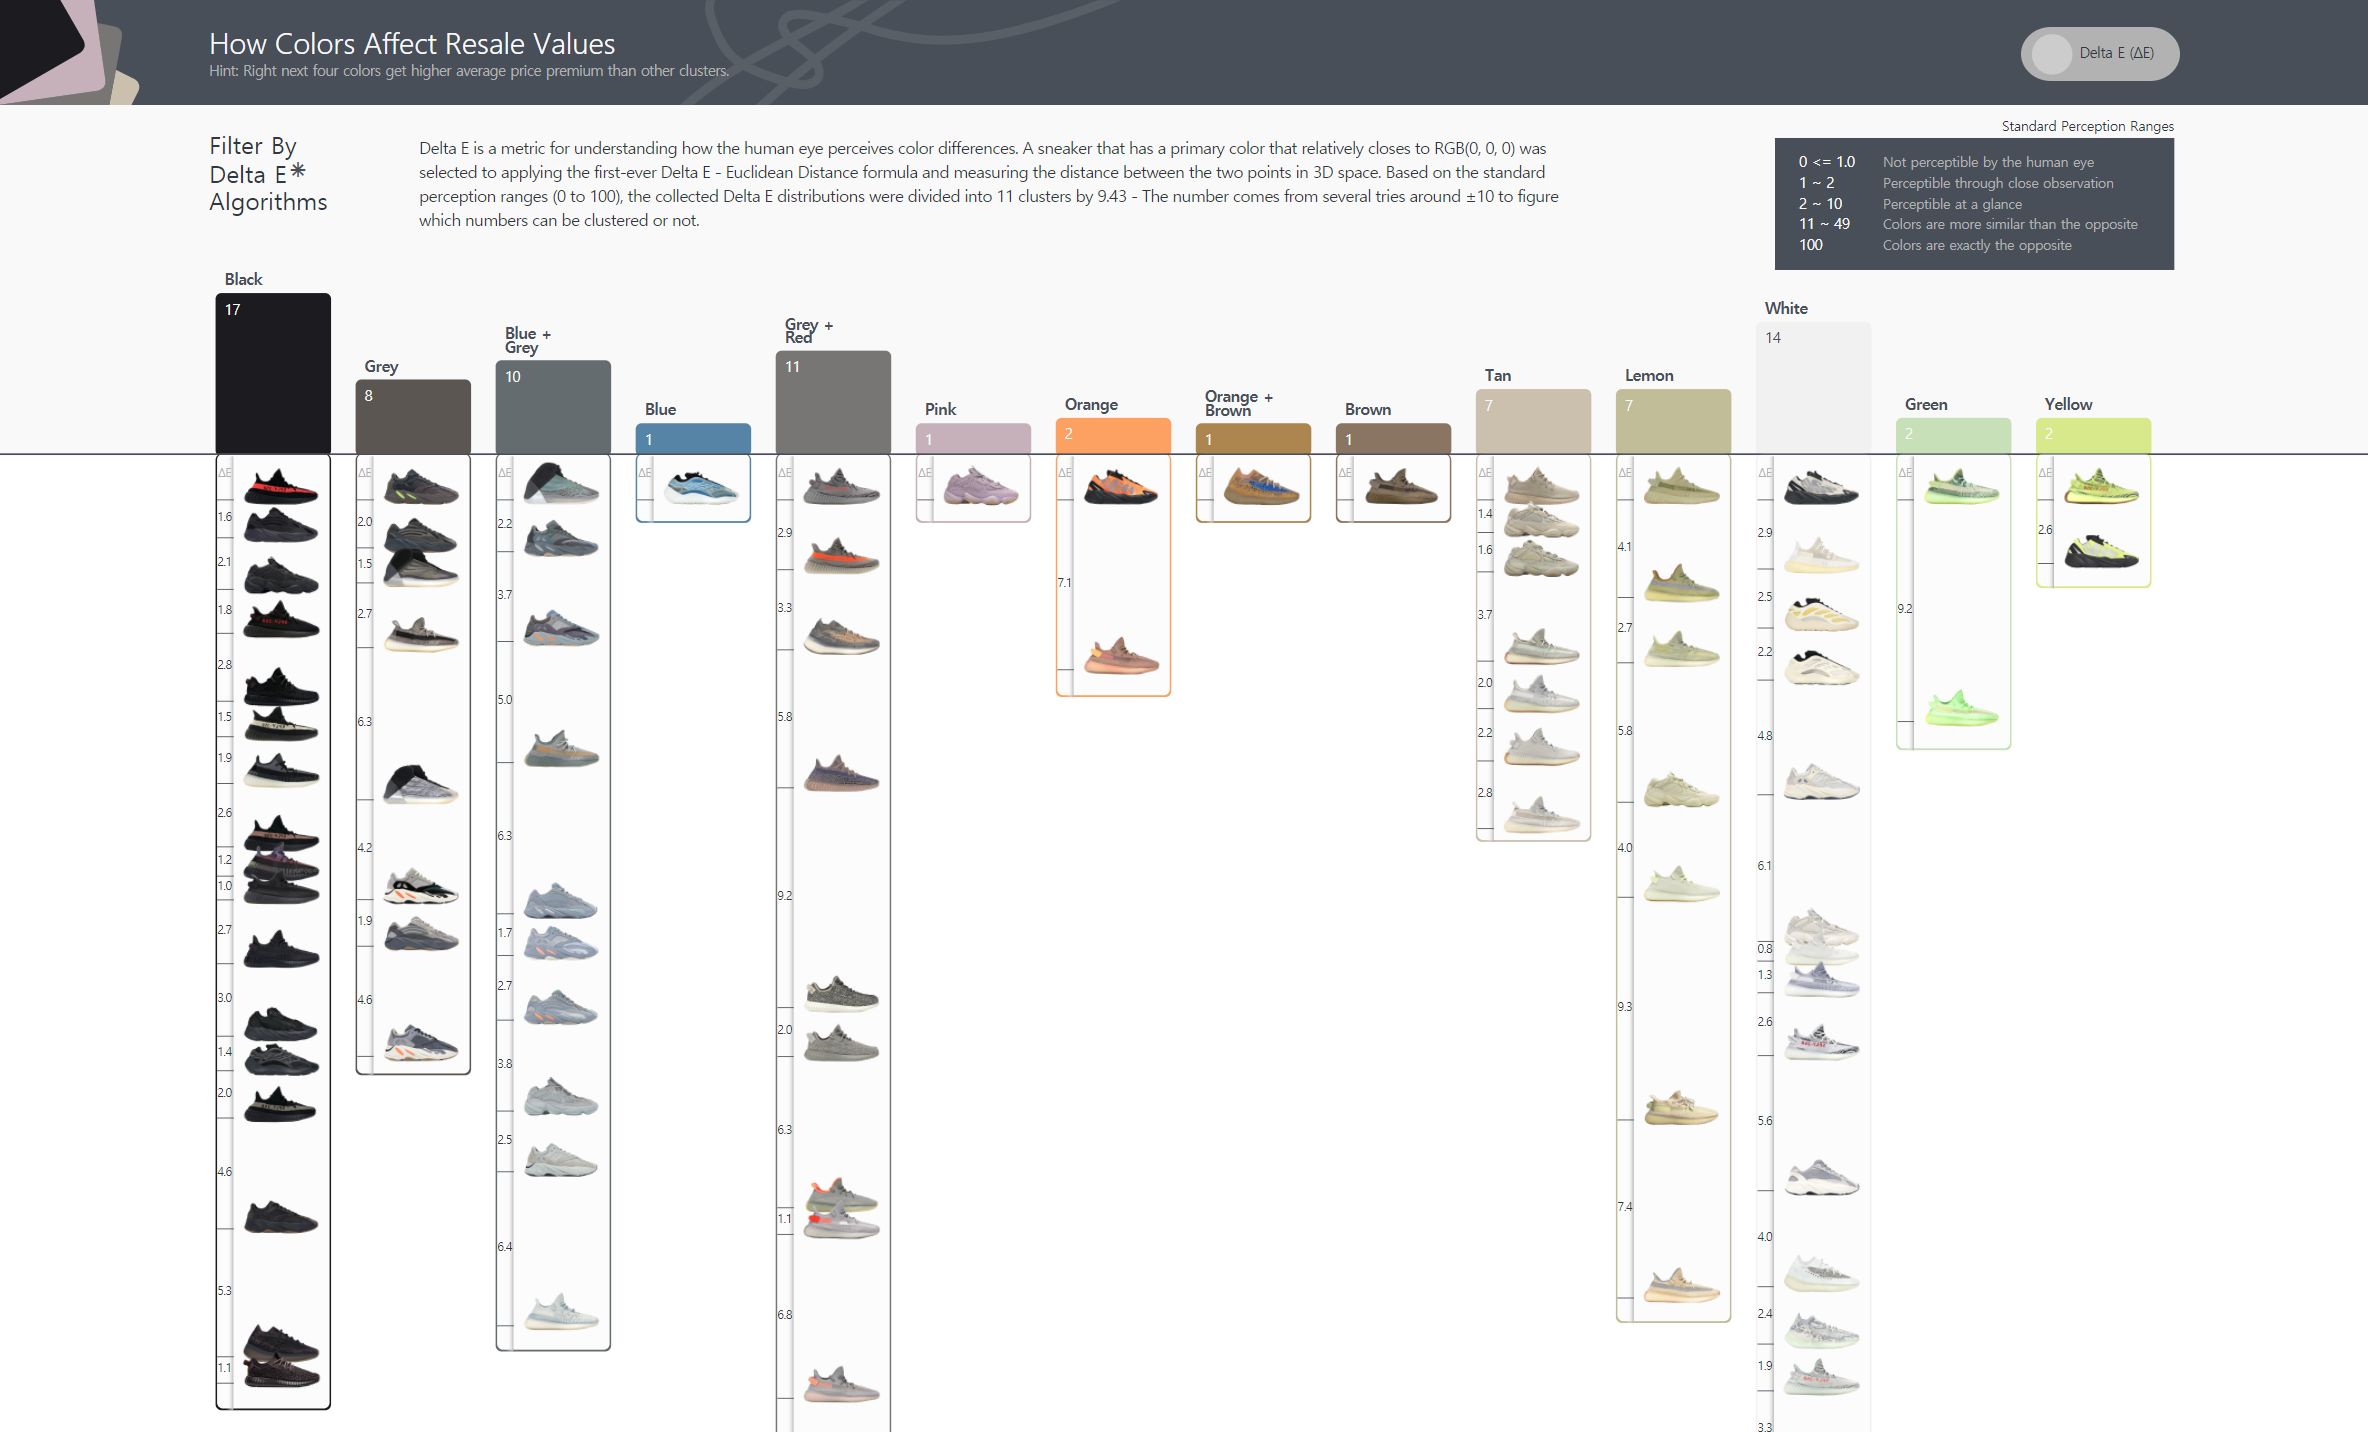
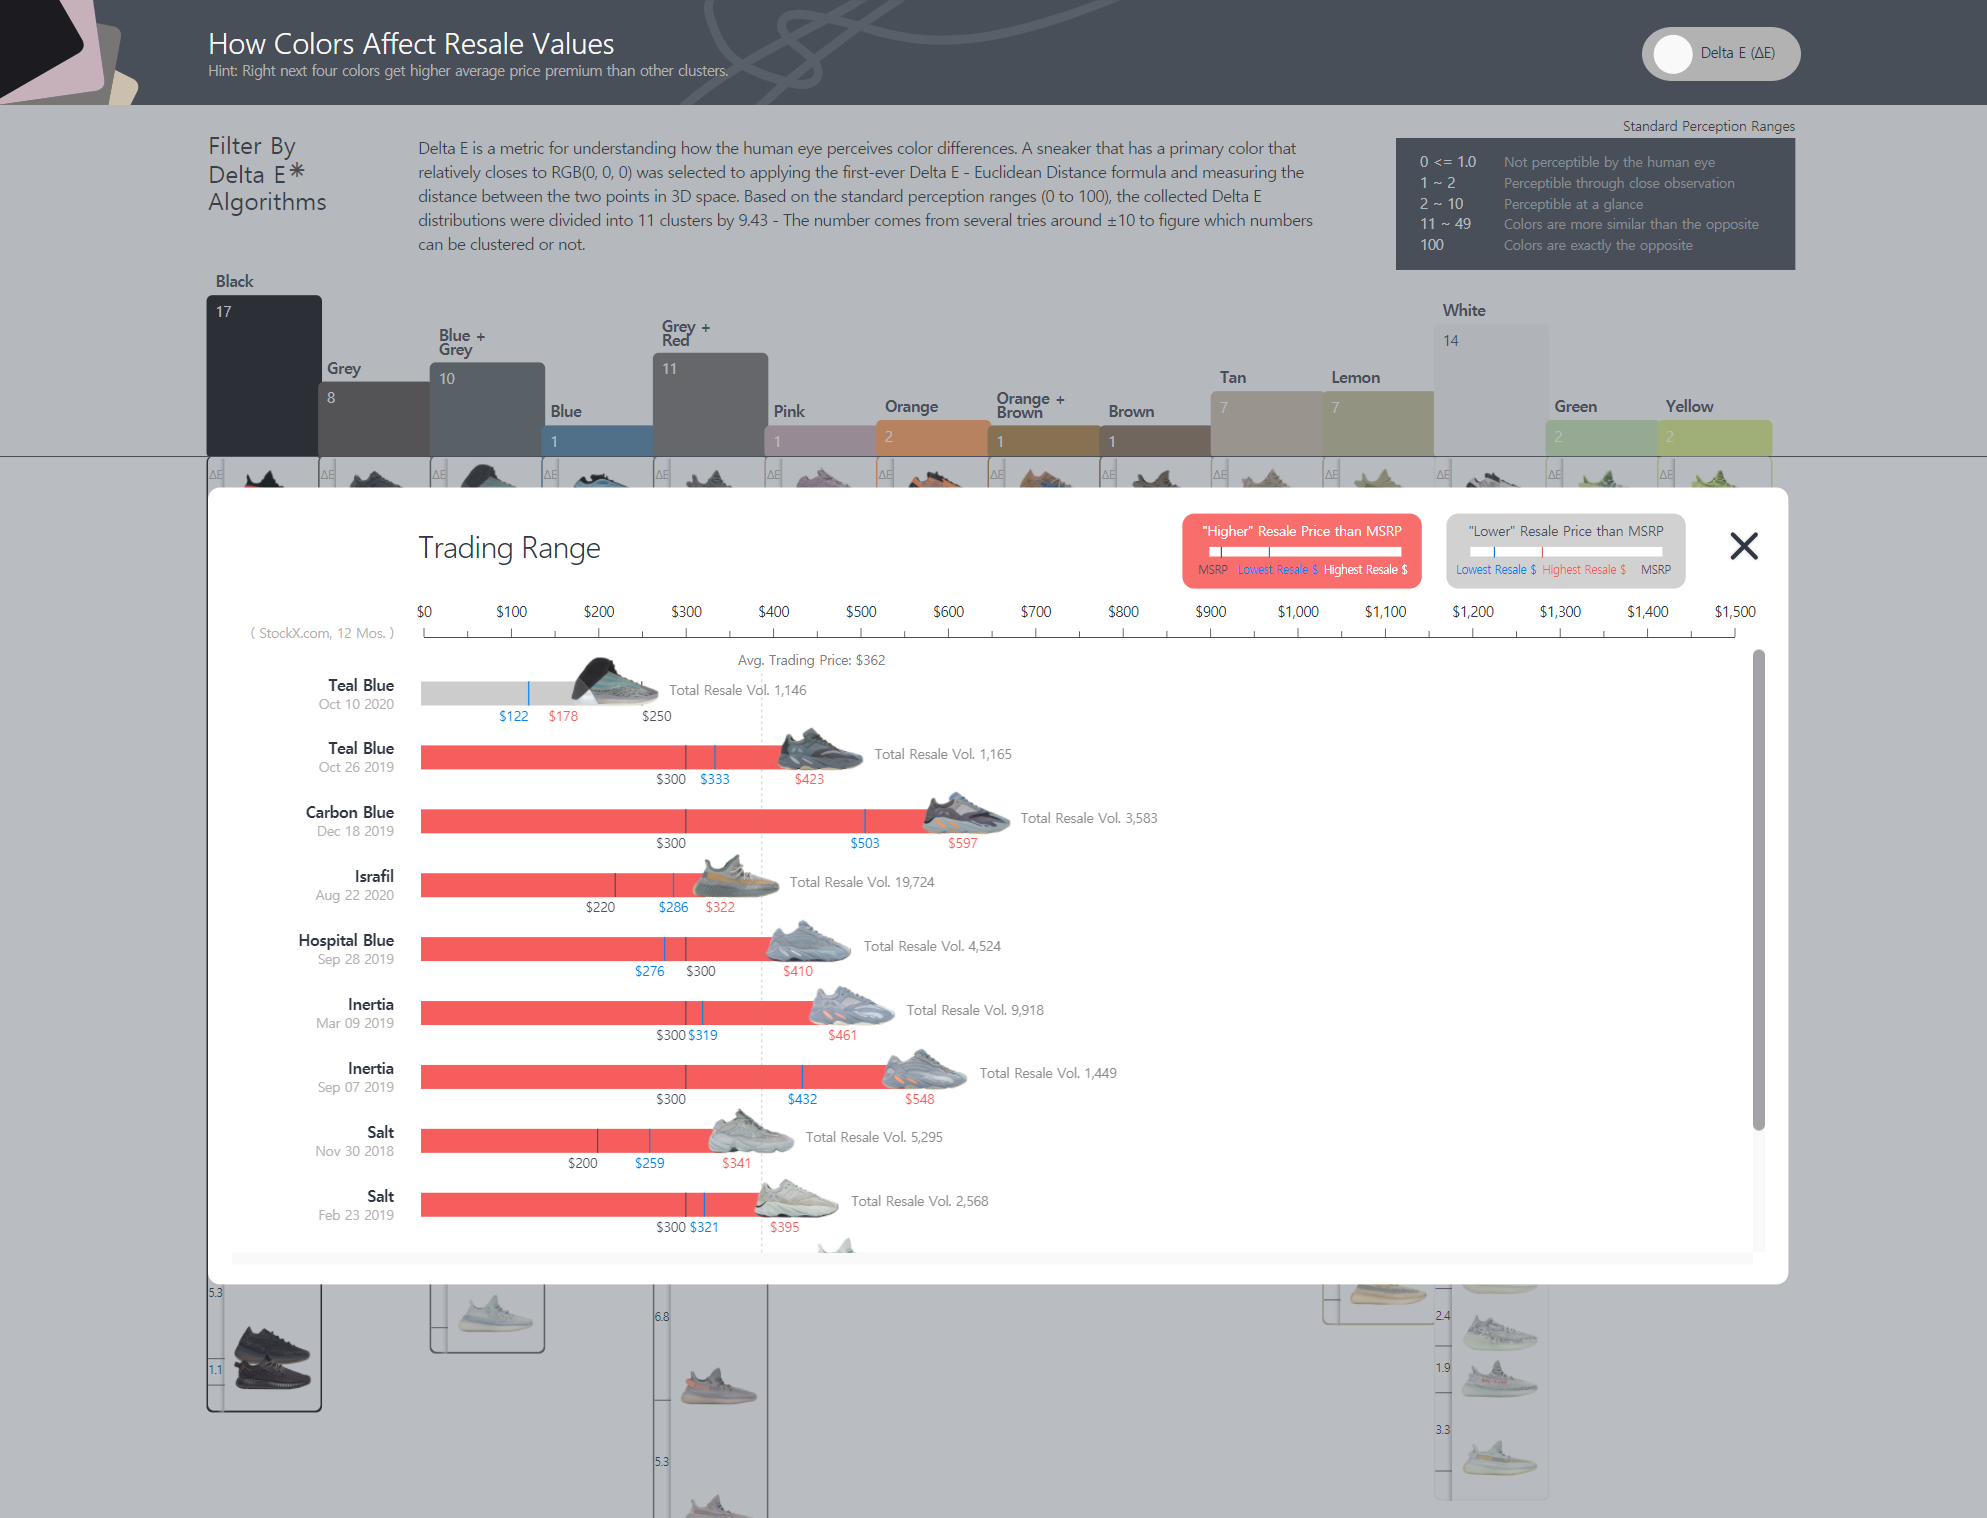
add new screenshot img

diff --git a/public/js/onePageChallenge.js b/public/js/onePageChallenge.js
@@ -605,11 +605,11 @@
       for (var w = 1; w < 3; w++) {
             const bgX = w == 1 ? (w * _margin.right * 2.6) : (w * _margin.right * 2.6) + _margin.gap
             const barColor = w == 1 ? _color.premiumPrice : _color.mapLine
-            const textColor = w == 1 ? "white" : _color.premiumPrice
+            const textColor = w == 1 ? "white" : _color.legend
             const legendRect = _createRect(bgX, _margin.top * -0.34, 'popup-legend-bar', classes = null, _margin.left * 1.14, _margin.bottom, barColor)
                   legendRect.setAttribute('rx', _canvasWidth * _onGetRatio(8, _canvasWidth, null))
                   legendRect.setAttribute('ry', _canvasWidth * _onGetRatio(8, _canvasWidth, null))
-                  legendRect.setAttribute('fill-opacity', 0.92)
+                  legendRect.setAttribute('fill-opacity', 0.9)
                   legendGroup.appendChild(legendRect);
             const legendtitleTxt = _createText(bgX + (_margin.left * 0.57), _margin.top * -0.1, id = null, 'smallest-body legend-title-txt', "middle", "hanging", textColor, legendTitle[w])
                   legendGroup.appendChild(legendtitleTxt)
